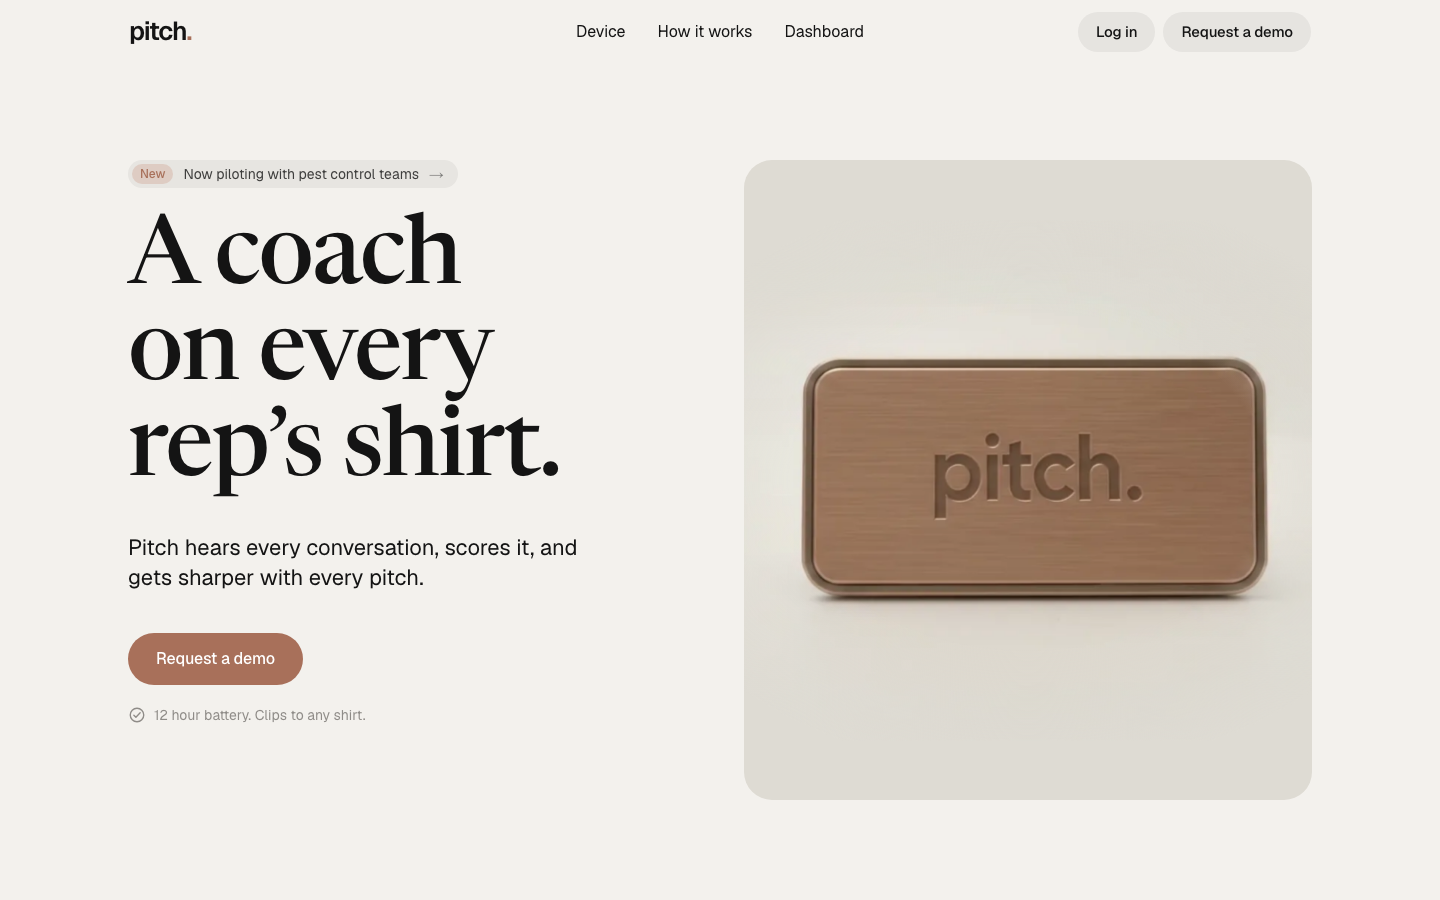
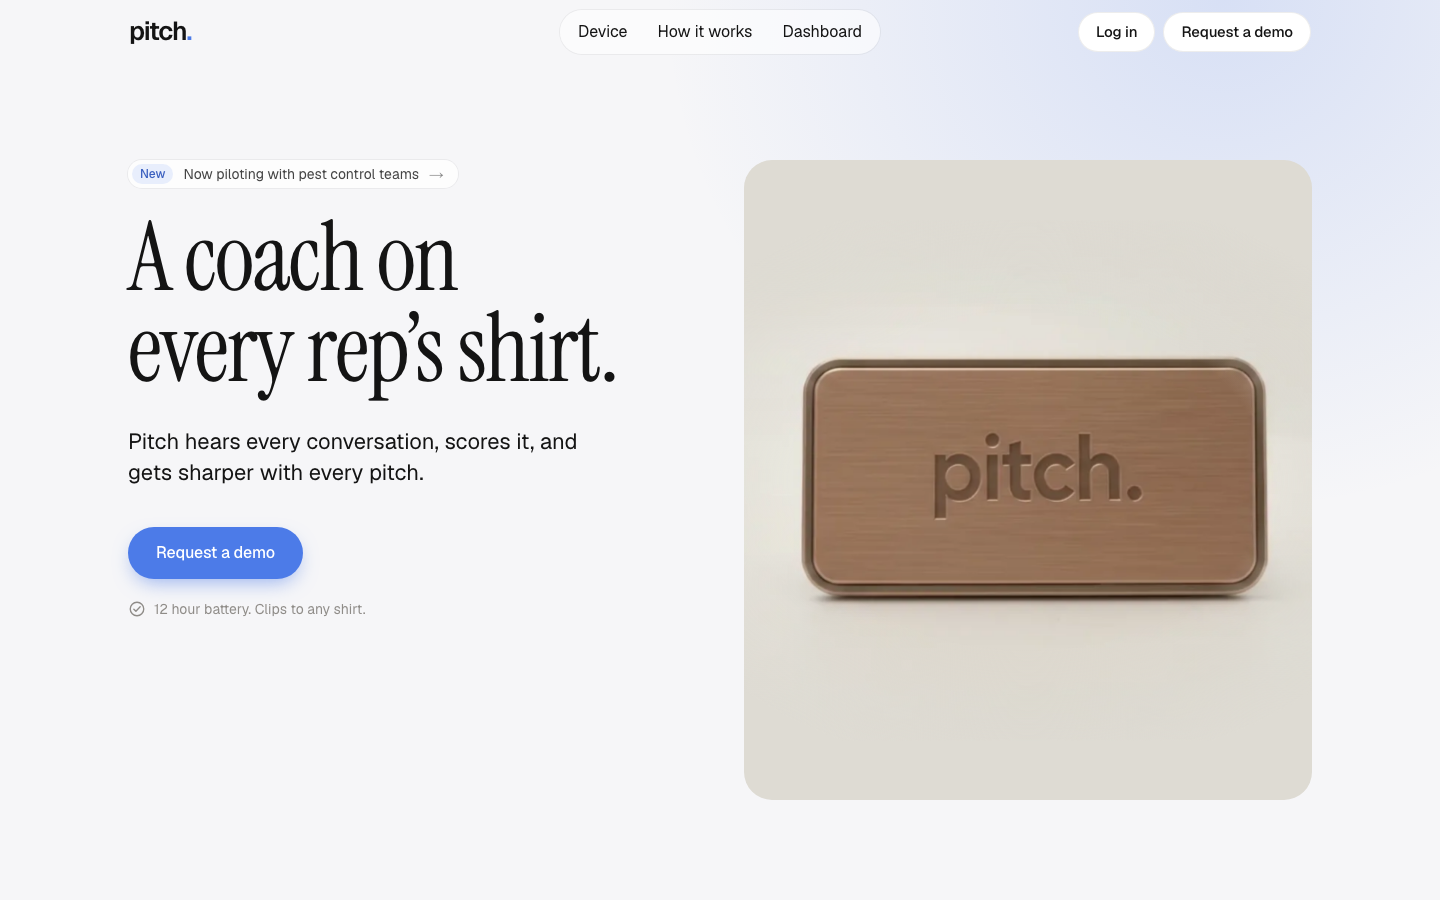
The Pitch card puts the app first, the nametag beside it, and the study links to the rebranded site
Luke wanted the phone to be the card's subject and the mic a supporting
piece beside it. One large phone now rises from the bottom edge a little
right of centre, showing the whole feed capture with its status bar and
tab bar (the toast-trimmed image had the wrong aspect, so the screen was
cropped at the sides). Behind its left shoulder sits the nametag as a
tilted print cut from the site's own render, and the ground is the app's
pale cornflower page wash rather than the render photo.

usepitch.app took the cornflower rebrand today, so the study's site
figure is recaptured from the live page, and the header grid gains a
"Live at" fact linking to it (a new `site` field on the entry).

Fixes LUK-126

diff --git a/app/globals.css b/app/globals.css
@@ -739,38 +739,56 @@ p a {
 }
 
 /*
- * Pitch. The stage IS the product shot: the marketing site's render of the
- * assembled nametag, on the render's own warm grey (#DEDBD3, SEQUENCE_BG in
- * marketing-v2/lib/sequence.ts) as the fallback behind it. Covered, not
- * fitted: the render carries a vignette, so sizing it smaller than the
- * stage left its edge as a visible band against the flat colour, and
- * zooming it cropped the plate. At cover the plate spans the middle two
- * thirds of a wide stage and the phone sits over its blank right end;
- * pinned left for the narrow phone stage, where cover crops the sides.
- * The scrim is
- * lighter still than the other brands': this ground is pale, and at 0.46 a
- * copper plate goes muddy rather than dark.
+ * Pitch. The ground is the app's own page: the pale cornflower wash the
+ * Private look puts behind every screen (theme.look in pitch-mobile),
+ * lifted straight from the feed capture the phone shows, so the phone
+ * sits on its own world rather than on a photo. The scrim is lighter
+ * than the other brands': the ground is pale, and at 0.46 the copper
+ * print goes muddy rather than dark.
  */
 .tile-stage--pitch {
   --scrim: 0.34;
   background:
-    url('/work/pitch/nametag-front.webp') 0% 50% / cover no-repeat,
-    #dedbd3;
+    radial-gradient(120% 90% at 50% 110%, rgba(76, 123, 232, 0.18), rgba(76, 123, 232, 0) 70%),
+    linear-gradient(180deg, #e6e9f6 0%, #f1f2f8 100%);
 }
 
 /*
- * One phone, bottom right, in front of the plate's blank end. Smaller than
- * the Awardco trio's primary so the nametag stays the subject; it starts
- * low enough that the stage's overflow crops the feed where the
- * screenshot's third card begins. Two classes, because .phone below sets
- * the same properties and comes later in this file: a single class here
- * loses to it and the phone lands centred at the trio's primary size.
+ * The subject: one phone, large, a little right of centre, rising from
+ * the bottom edge like the Awardco trio's primary. Two classes, because
+ * .phone below sets the same properties and comes later in this file: a
+ * single class here loses to it and the phone lands centred at the
+ * trio's size.
  */
 .phone.pitch-phone {
-  --pw: min(30cqw, 46cqh);
-  top: 24cqh;
-  left: 84%;
-  box-shadow: 0 18px 44px rgba(40, 30, 20, 0.38), 0 2px 10px rgba(40, 30, 20, 0.2);
+  --pw: min(42cqw, 54cqh);
+  top: 9cqh;
+  left: 60%;
+  z-index: 2;
+  box-shadow: 0 24px 56px rgba(30, 40, 90, 0.32), 0 2px 10px rgba(30, 40, 90, 0.16);
+}
+
+/*
+ * The supporting piece: the nametag as a print, behind the phone's left
+ * shoulder and tilted a few degrees so it reads as a thing laid beside
+ * the phone rather than a second screen. The image is the render's own
+ * warm ground around the plate, so the print has a paper edge.
+ */
+.pitch-plate {
+  position: absolute;
+  left: 5%;
+  top: 30cqh;
+  z-index: 1;
+  width: 50cqw;
+  aspect-ratio: 705 / 400;
+  transform: rotate(-4deg);
+  border-radius: calc(50cqw * 0.03);
+  overflow: hidden;
+  box-shadow: 0 16px 40px rgba(30, 40, 90, 0.22), 0 1px 4px rgba(30, 40, 90, 0.12);
+}
+
+.pitch-plate img {
+  object-fit: cover;
 }
 
 /*
@@ -1200,6 +1218,17 @@ p a {
 }
 
 .cs-meta__list li + li { margin-top: 0.35rem; }
+
+/* A fact that is a link: underlined in the accent, like the footer links. */
+.cs-meta__link {
+  color: #fff;
+  text-decoration: underline;
+  text-decoration-color: var(--accent);
+  text-underline-offset: 0.2em;
+  transition: color 0.2s ease;
+}
+
+.cs-meta__link:hover { color: var(--accent); }
 
 /* A still picture on the accent band, where the bespoke pages put a laptop:
    a hairline so a pale render has an edge against the colour. */

diff --git a/components/PitchTile.tsx b/components/PitchTile.tsx
@@ -11,15 +11,20 @@ import { getCaseStudy } from '@/lib/caseStudies'
 import { useEnterToOpen } from '@/lib/useEnterToOpen'
 
 /*
- * Pitch: the nametag and the app, together. The stage is the marketing
- * site's own render of the assembled nametag (public/work/pitch/
- * nametag-front.webp, frame 1 of the usepitch.app hero sequence), pulled
- * left so the copper plate reads whole, and one phone rises from the
- * bottom right showing the rep app's feed as it runs on the simulator
- * today, on the Private look (LUK-119). Nothing is invented: the render
- * is the one the public site shows, and every pixel of UI is a real
- * screen. The phone reuses the Awardco tile's .phone chrome; only its
- * size and position are its own (.pitch-phone in globals.css).
+ * Pitch: the app first, the nametag beside it. One phone, large and a
+ * little right of centre, rises from the bottom edge showing the rep
+ * app's feed as it runs on the simulator today, on the Private look
+ * (LUK-119). Behind its left shoulder sits the nametag as a print: the
+ * marketing site's render of the assembled plate (public/work/pitch/
+ * nametag-plate.png, cropped from frame 1 of the usepitch.app hero
+ * sequence), tilted a few degrees. The ground is the app's own pale
+ * page wash, so the phone reads as the subject and the copper plate as
+ * the supporting piece (Luke, 2026-10-14: "make the mobile app the main
+ * character of the tile, and the mic a supporting piece next to it").
+ * Nothing is invented: the render is the one the public site shows, and
+ * every pixel of UI is a real screen. The phone reuses the Awardco
+ * tile's .phone chrome; its size and position are its own (.pitch-phone
+ * in globals.css), and the print is .pitch-plate.
  *
  * The study behind the tile is password-gated, like Hoth's: a click asks
  * for the password in place, and once the unlock cookie is set (readable
@@ -27,7 +32,7 @@ import { useEnterToOpen } from '@/lib/useEnterToOpen'
  */
 
 const STAGE_LABEL =
-  'The Pitch nametag, a brushed copper plate engraved with the word pitch, with a phone in front of it showing the rep app: a feed of doors from yesterday, each with its score, a play button ringed in its score colour, and one line of coaching'
+  'A phone showing the Pitch rep app: a feed of doors from yesterday, each with its score, a play button ringed in its score colour, and one line of coaching. Behind it, a print of the Pitch nametag, a brushed copper plate engraved with the word pitch'
 
 export default function PitchTile() {
   const router = useRouter()
@@ -57,13 +62,21 @@ export default function PitchTile() {
         <div className="tile-scrim" style={{ opacity: hovered ? 1 : 0 }} />
 
         <div className="phone-trio" role="img" aria-label={STAGE_LABEL}>
+          <div className="pitch-plate">
+            <Image
+              src="/work/pitch/nametag-plate.png"
+              alt=""
+              fill
+              sizes="(min-width: 48em) 20vw, 50vw"
+            />
+          </div>
           <div className="phone pitch-phone">
             <div className="phone__screen">
               <Image
-                src="/work/pitch/feed-tile.png"
+                src="/work/pitch/screen-feed.png"
                 alt=""
                 fill
-                sizes="(min-width: 48em) 14vw, 38vw"
+                sizes="(min-width: 48em) 16vw, 40vw"
               />
             </div>
           </div>

diff --git a/lib/caseStudies.ts b/lib/caseStudies.ts
@@ -33,6 +33,8 @@ export type CaseStudy = {
   /** Facts for the story header's grid; the bespoke pages hardcode theirs. */
   tools?: string
   skills?: string
+  /** Where the work is live, for the facts grid. */
+  site?: { href: string; label: string }
   /** One line for the work-grid tile. Kept here so tile copy can't drift from the case study. */
   summary: string
   /** 2–3 short metrics for the at-a-glance row. Omit until the study has real numbers. */
@@ -328,6 +330,7 @@ export const caseStudies: CaseStudy[] = [
     tools: 'Figma, React Native and Expo, Next.js, Supabase, Node, Claude Code',
     skills:
       'Product design, interaction design, mobile and web engineering, data modelling, audio and AI pipeline, brand',
+    site: { href: 'https://usepitch.app', label: 'usepitch.app' },
     summary: 'A nametag mic and an AI coach for reps who sell face to face.',
     headline: [
       'A nametag mic, a rep app, a manager console and an admin console',

diff --git a/app/work/[slug]/page.tsx b/app/work/[slug]/page.tsx
@@ -153,6 +153,16 @@ export default async function CaseStudyPage({ params }: { params: Promise<{ slug
   if (real(cs.team)) facts.push({ label: 'Team', value: cs.team })
   if (!cs.hideTimeline && real(cs.period)) facts.push({ label: 'Timeline', value: cs.period })
   if (real(cs.tools)) facts.push({ label: 'Tools', value: cs.tools })
+  if (cs.site) {
+    facts.push({
+      label: 'Live at',
+      value: (
+        <a href={cs.site.href} className="cs-meta__link" target="_blank" rel="noopener noreferrer">
+          {cs.site.label}
+        </a>
+      ),
+    })
+  }
   if (headline.length > 0) {
     facts.push({
       label: eyebrows.impact ?? 'Impact',
